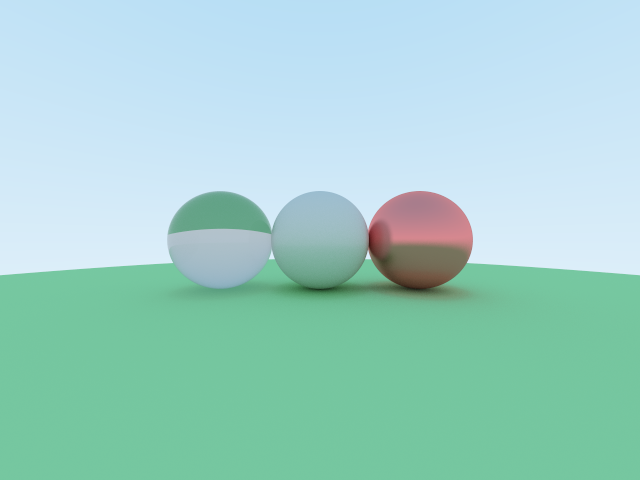
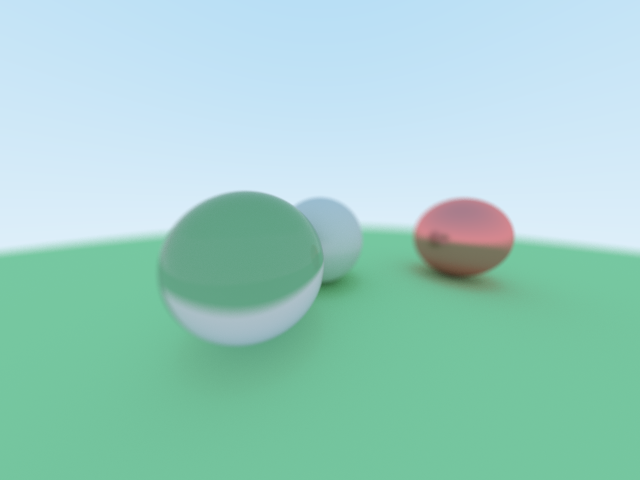
Depth of field

Changed region(s): [[0.0, 0.375, 1.0, 0.7812]]

diff --git a/Source/Atrc/Camera/ApertureCamera.cpp b/Source/Atrc/Camera/ApertureCamera.cpp
@@ -1,0 +1,51 @@
+#include <Atrc/Camera/ApertureCamera.h>
+
+AGZ_NS_BEG(Atrc)
+
+ApertureCamera::ApertureCamera(
+    const Vec3r &eye, const Vec3r &_dir, const Vec3r &up,
+    Radr FOVy, Real aspectRatio, Real apertureRadius, Real focusDis)
+    : eye_(eye), dir_(_dir.Normalize()), scrCen_(AGZ::UNINITIALIZED),
+      scrX_(AGZ::UNINITIALIZED), scrY_(AGZ::UNINITIALIZED),
+      scrXDir_(AGZ::UNINITIALIZED), scrYDir_(AGZ::UNINITIALIZED),
+      apertureRadius_(apertureRadius), focusDis_(focusDis)
+{
+    scrCen_ = eye_ + dir_;
+
+    scrXDir_ = Cross(dir_, up).Normalize();
+    scrYDir_ = Cross(scrXDir_, dir_);
+
+    Real scrYSize = Tan(Real(0.5) * FOVy);
+    Real scrXSize = scrYSize * aspectRatio;
+
+    scrX_ = scrXSize * scrXDir_;
+    scrY_ = scrYSize * scrYDir_;
+}
+
+namespace
+{
+    Vec2r UniformlySampleInUnitDisk()
+    {
+        for(;;)
+        {
+            Vec2r ret(2 * Rand() - 1, 2 * Rand() - 1);
+            if(ret.LengthSquare() <= 1)
+                return ret;
+        }
+    }
+}
+
+Ray ApertureCamera::GetRay(const Vec2r &screenSample) const
+{
+    Vec3r ori = scrCen_ + screenSample.x * scrX_ + screenSample.y * scrY_;
+    Vec3r dir = (ori - eye_).Normalize();
+    Real t = focusDis_ / Dot(dir, dir_);
+    Vec3r focusPoint = eye_ + t * dir;
+
+    Vec2r sam = apertureRadius_ * UniformlySampleInUnitDisk();
+    Vec3r newOri = scrCen_ + scrXDir_ * sam.x + scrYDir_ * sam.y;
+
+    return Ray(newOri, (focusPoint - newOri).Normalize());
+}
+
+AGZ_NS_END(Atrc)

diff --git a/Source/Launcher/Main.cpp b/Source/Launcher/Main.cpp
@@ -23,16 +23,16 @@ RenderTarget<Color3b> ToSavedImage(const RenderTarget<Color3f> &origin, float ga
 
 int main()
 {
-    const Vec3r eye = { -5.0, 0.0, 0.0 };
+    const Vec3r eye = { -2.4, 4.5, 1.0 };
     const Vec3r dir = (Vec3r(0.0) - eye).Normalize();
-    PerspectiveCamera camera(
+    ApertureCamera camera(
         eye, dir, { 0.0, 0.0, 1.0 },
-        Degr(90.0), SCR_ASPECT_RATIO, 1.0);
+        Degr(90.0), SCR_ASPECT_RATIO, 0.13, 3.6069);
 
     ColoredSky sky({ 0.4f, 0.7f, 0.9f }, { 1.0f, 1.0f, 1.0f });
     DiffuseSphere ground(200.0, Transform::Translate({ 0.0, 0.0, -200.0 - 1.0 }) , { 0.4f, 0.8f, 0.4f });
     DiffuseSphere centreBall(1.0, TRANSFORM_IDENTITY, { 0.7f, 0.7f, 0.7f });
-    MetalSphere rightMetalSphere(1.0, Transform::Translate({ 0.0, -2.0, 0.0 }),
+    MetalSphere rightMetalSphere(1.0, Transform::Translate({ -3.0, -2.0, 0.0 }),
                                  { 1.0f, 0.3f, 0.3f }, 0.2);
     GlassSphere leftGlassSphere(1.0, Transform::Translate({ 0.0, 2.0, 0.0 }),
                                 { 0.8f, 0.8f, 0.8f }, { 0.8f, 0.8f, 0.8f }, 1.5);
@@ -47,7 +47,7 @@ int main()
     PathTracer integrator(20);
 
     //ParallelRenderer<Native1sppSubareaRenderer> renderer(-1);
-    ParallelRenderer<JitteredSubareaRenderer> renderer(-1, 100);
+    ParallelRenderer<JitteredSubareaRenderer> renderer(-1, 1000);
     renderer.Render(scene, integrator, renderTarget);
 
     AGZ::Tex::TextureFile::WriteRGBToPNG("Output.png", ToSavedImage(renderTarget, 2.2f));

diff --git a/Source/Atrc/Entity/GlassSphere.cpp b/Source/Atrc/Entity/GlassSphere.cpp
@@ -29,7 +29,7 @@ namespace
         : ATRC_IMPLEMENTS BxDF,
           ATRC_PROPERTY AGZ::Uncopiable
     {
-        CoordSys local_;
+        Vec3r nor_;
         Spectrum reflColor_, refrColor_;
         Real refIdx_;
 
@@ -37,7 +37,7 @@ namespace
 
         explicit GlassBxDF(
             const Intersection &inct, const Spectrum &reflColor, const Spectrum &refrColor, Real refIdx)
-            : local_(CoordSys::FromZ(inct.nor)), reflColor_(reflColor), refrColor_(refrColor), refIdx_(refIdx)
+            : nor_(inct.nor), reflColor_(reflColor), refrColor_(refrColor), refIdx_(refIdx)
         {
             
         }
@@ -54,20 +54,20 @@ namespace
 
         Option<BxDFSample> Sample(const Vec3r &wi, BxDFType type) const override
         {
-            Real dot = Dot(wi, local_.ez), absDot = Abs(dot);
+            Real dot = Dot(wi, nor_), absDot = Abs(dot);
             Real niDivNt, cosine = absDot;
 
             Vec3r nor(AGZ::UNINITIALIZED);
             if(dot < 0)
             {
                 niDivNt = refIdx_;
-                nor = -local_.ez;
+                nor = -nor_;
                 cosine *= refIdx_;
             }
             else
             {
                 niDivNt = 1 / refIdx_;
-                nor = local_.ez;
+                nor = nor_;
             }
 
             if(type.Contains(BXDF_TRANSMISSION | BXDF_SPECULAR))

diff --git a/Source/Atrc/Entity/MetaSphere.cpp b/Source/Atrc/Entity/MetaSphere.cpp
@@ -10,14 +10,14 @@ namespace
         : ATRC_IMPLEMENTS BxDF,
           ATRC_PROPERTY AGZ::Uncopiable
     {
-        CoordSys localCoord_;
+        Vec3r nor_;
         Spectrum color_;
         Real roughness_;
 
     public:
 
         explicit MetalBxDF(const Intersection &inct, const Spectrum &color, Real roughness)
-            : localCoord_(CoordSys::FromZ(inct.nor)), color_(color), roughness_(roughness)
+            : nor_(inct.nor), color_(color), roughness_(roughness)
         {
             
         }
@@ -35,12 +35,12 @@ namespace
         Option<BxDFSample> Sample(const Vec3r &wi, BxDFType type) const override
         {
             if(type.Contains(BXDF_REFLECTION | BXDF_SPECULAR) &&
-                Dot(wi, localCoord_.ez) > Real(0))
+                Dot(wi, nor_) > Real(0))
             {
-                Vec3r dir = Real(2) * Dot(localCoord_.ez, wi) * localCoord_.ez - wi;
+                Vec3r dir = Real(2) * Dot(nor_, wi) * nor_ - wi;
                 if(roughness_)
                     dir = (dir + roughness_ * CommonSampler::Uniform_InUnitSphere::Sample().sample).Normalize();
-                Real cos = Dot(dir, localCoord_.ez);
+                Real cos = Dot(dir, nor_);
                 if(cos <= Real(0))
                     return None;
                 return BxDFSample{ dir, color_ / SS(cos), Real(1) };

diff --git a/Source/Atrc/Camera/PerspectiveCamera.cpp b/Source/Atrc/Camera/PerspectiveCamera.cpp
@@ -4,17 +4,17 @@ AGZ_NS_BEG(Atrc)
 
 PerspectiveCamera::PerspectiveCamera(
     const Vec3r &eye, const Vec3r &_dir, const Vec3r &up,
-    Radr FOVy, Real aspectRatio, Real distance)
+    Radr FOVy, Real aspectRatio)
     : eye_(eye), scrCen_(AGZ::UNINITIALIZED),
       scrX_(AGZ::UNINITIALIZED), scrY_(AGZ::UNINITIALIZED)
 {
     Vec3r dir = _dir.Normalize();
-    scrCen_ = eye_ + distance * dir;
+    scrCen_ = eye_ + dir;
 
     Vec3r scrXDir = Cross(dir, up).Normalize();
     Vec3r scrYDir = Cross(scrXDir, dir);
 
-    Real scrYSize = distance * Tan(Real(0.5) * FOVy);
+    Real scrYSize = Tan(Real(0.5) * FOVy);
     Real scrXSize = scrYSize * aspectRatio;
 
     scrX_ = scrXSize * scrXDir;

diff --git a/Source/Atrc/Camera/ApertureCamera.h b/Source/Atrc/Camera/ApertureCamera.h
@@ -2,20 +2,23 @@
 
 #include <Atrc/Common.h>
 #include <Atrc/Camera/Camera.h>
+#include "PerspectiveCamera.h"
 
 AGZ_NS_BEG(Atrc)
 
-class PerspectiveCamera
+class ApertureCamera
     : ATRC_IMPLEMENTS Camera
 {
-    Vec3r eye_, scrCen_;
+    Vec3r eye_, scrCen_, dir_;
     Vec3r scrX_, scrY_;
+    Vec3r scrXDir_, scrYDir_;
+    Real apertureRadius_, focusDis_;
 
 public:
 
-    PerspectiveCamera(
+    ApertureCamera(
         const Vec3r &eye, const Vec3r &_dir, const Vec3r &up,
-        Radr FOVy, Real aspectRatio);
+        Radr FOVy, Real aspectRatio, Real apertureRadius, Real focusDis);
 
     Ray GetRay(const Vec2r &screenSample) const override;
 };

diff --git a/Source/Atrc/Atrc.h b/Source/Atrc/Atrc.h
@@ -1,5 +1,6 @@
 #pragma once
 
+#include <Atrc/Camera/ApertureCamera.h>
 #include <Atrc/Camera/PerspectiveCamera.h>
 
 #include <Atrc/Math/Math.h>
